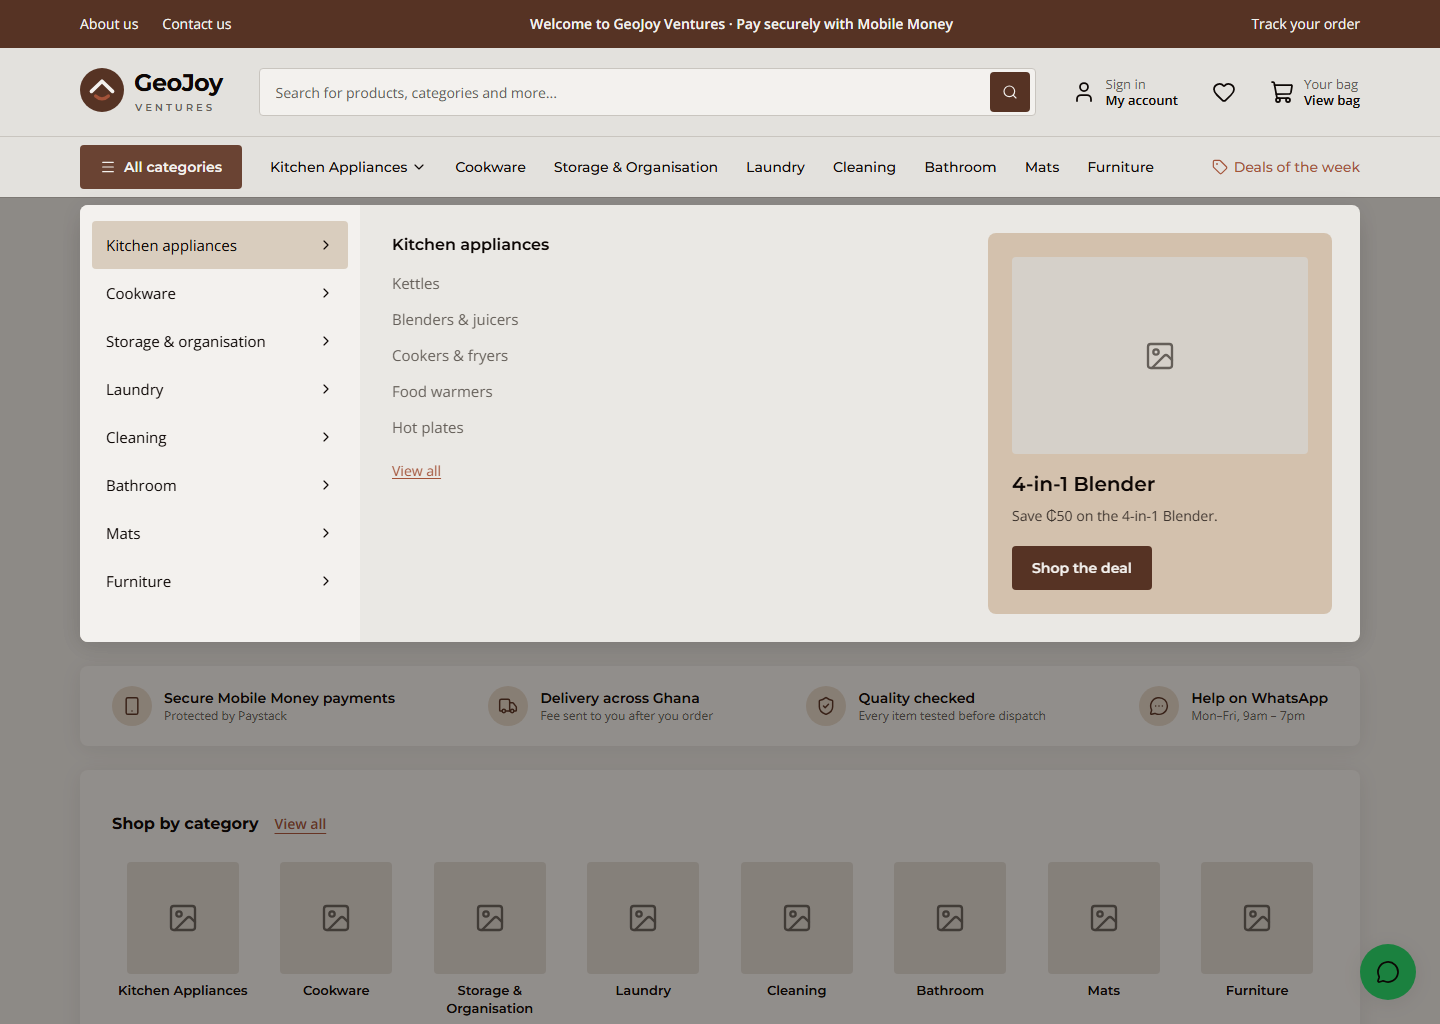
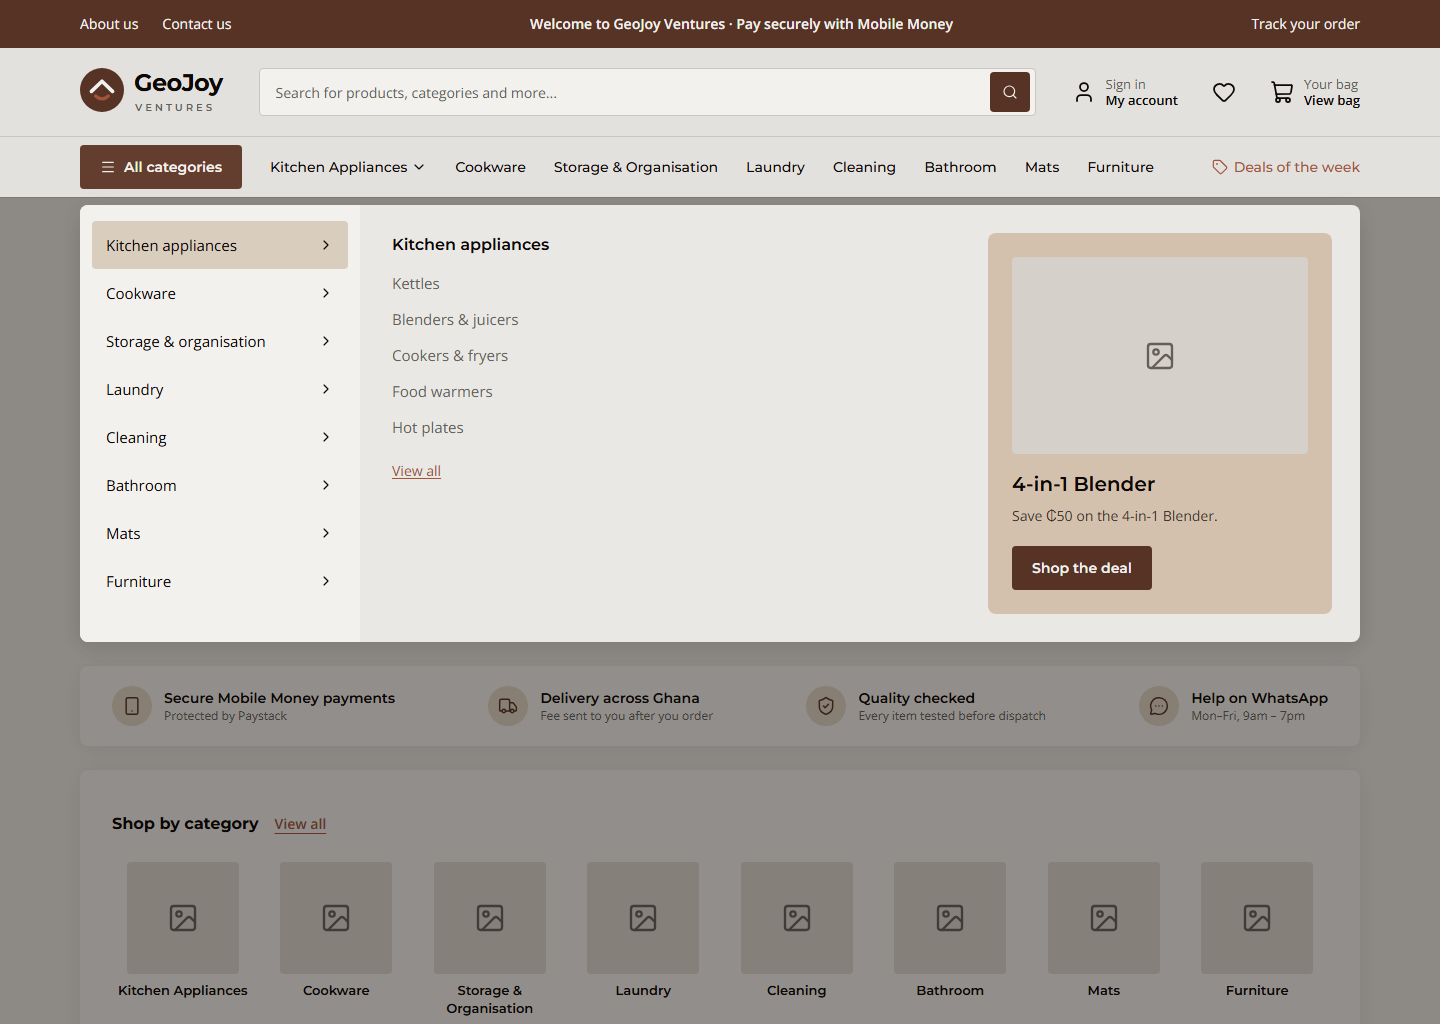
Hide the WhatsApp button while a header menu is open
The floating button showed through the dimmed overlay of the slide-out
menu and the desktop categories panel. Both menus now mark their open
panel with data-menu-open, and the button hides itself while one is
open. Re-took the categories menu screenshots.

diff --git a/src/components/ui/WhatsAppButton.tsx b/src/components/ui/WhatsAppButton.tsx
@@ -12,7 +12,10 @@ type WhatsAppButtonProps = {
   message?: string;
 };
 
-/** Floating WhatsApp chat. Render it only on Home, Product, Checkout, Payment failed, Track order and Help & contact. */
+/**
+ * Floating WhatsApp chat. Render it only on Home, Product, Checkout, Payment failed, Track order and Help & contact.
+ * Hidden while a header menu is open (`data-menu-open`), so it never shows over the menu.
+ */
 export function WhatsAppButton({ topics, message }: WhatsAppButtonProps) {
   const [open, setOpen] = useState(false);
   const buttonRef = useRef<HTMLButtonElement>(null);
@@ -38,7 +41,7 @@ export function WhatsAppButton({ topics, message }: WhatsAppButtonProps) {
         aria-expanded={open}
         aria-controls={open ? panelId : undefined}
         onClick={() => setOpen((value) => !value)}
-        className="fixed right-4 bottom-4 z-40 grid size-14 place-items-center rounded-full bg-whatsapp text-ink shadow-panel transition-colors hover:bg-whatsapp/85 motion-reduce:transition-none sm:right-6 sm:bottom-6"
+        className="fixed right-4 bottom-4 z-40 grid size-14 place-items-center rounded-full bg-whatsapp text-ink shadow-panel transition-colors hover:bg-whatsapp/85 motion-reduce:transition-none sm:right-6 sm:bottom-6 [body:has([data-menu-open])_&]:hidden"
       >
         <MessageCircle className="size-6" {...iconProps} />
       </button>

diff --git a/src/components/layout/MobileMenu.tsx b/src/components/layout/MobileMenu.tsx
@@ -83,6 +83,7 @@ export function MobileMenu({ trigger, categories }: MobileMenuProps) {
           role="dialog"
           aria-modal="true"
           aria-label="Menu"
+          data-menu-open={open || undefined}
           onClick={closeOnLinkClick}
           className={cn(
             "absolute inset-y-0 left-0 flex w-4/5 max-w-sm flex-col overflow-y-auto bg-background shadow-panel transition-transform duration-200 motion-reduce:transition-none",

diff --git a/src/components/layout/CategoriesMenu.tsx b/src/components/layout/CategoriesMenu.tsx
@@ -108,6 +108,7 @@ export function CategoriesMenu({ categories }: { categories: MenuCategory[] }) {
           role="dialog"
           aria-modal="true"
           aria-label="All categories"
+          data-menu-open={open || undefined}
           onClick={closeOnLinkClick}
           className="pointer-events-auto flex overflow-hidden rounded-panel bg-card shadow-panel"
         >
